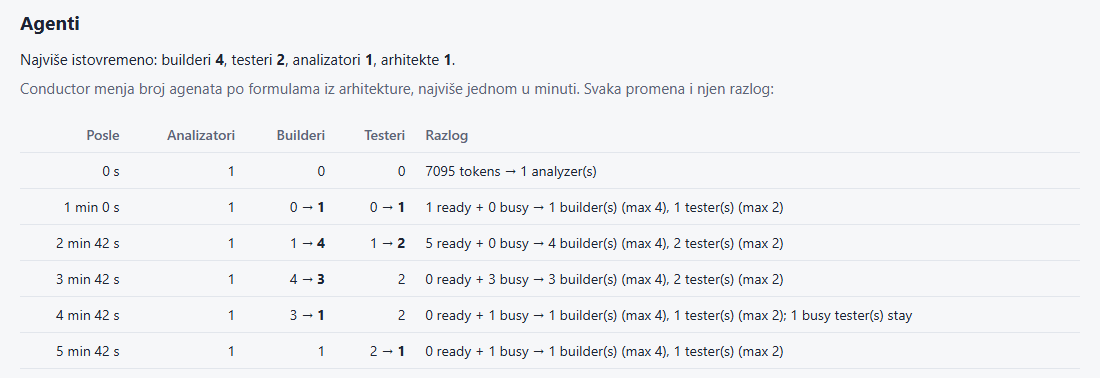
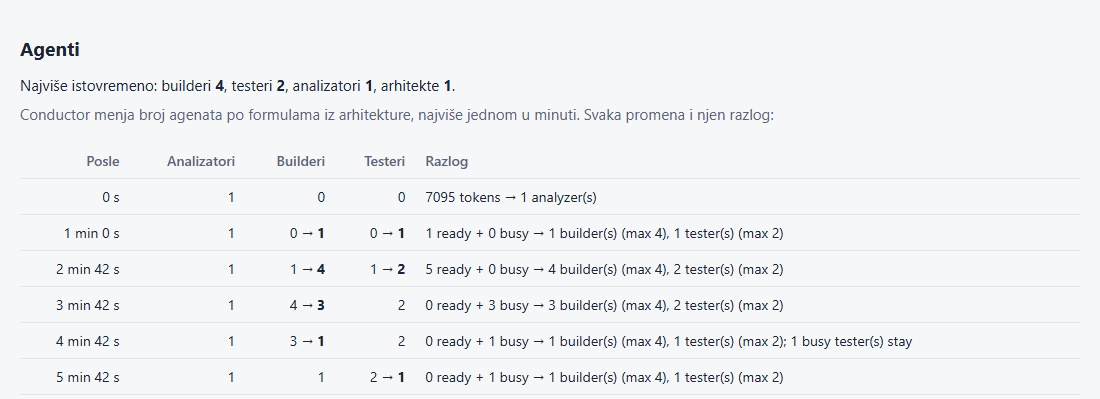
README: latest real Recepti run (recepti-20261031-2317) and new report screenshots

diff --git a/README.md b/README.md
@@ -12,7 +12,7 @@ Wemora reads a React single-page app, plans the migration, and lets a team of AI
 
 ![Wemora report of a real run on the Recepti app: 4 screens proven, 1 partially proven](docs/img/recepti-report-summary.png)
 
-<sub>The report of a real run (Claude Haiku 4.5 and Sonnet 4.6) on the 5-screen Recepti app, committed in [`runs/recepti-20261031-2148`](runs/recepti-20261031-2148/report.html): 4 screens proven and 1 partially proven, every screen in its first round, 6 of 7 cross-screen flows passing, in 14 minutes for $0.88. The report is in Serbian, the team's language.</sub>
+<sub>The report of a real run (Claude Haiku 4.5 and Sonnet 4.6) on the 5-screen Recepti app, committed in [`runs/recepti-20261031-2317`](runs/recepti-20261031-2317/report.html): 4 screens proven and 1 partially proven, every screen in its first round, 24 screen tests and 4 of 5 cross-screen flows passing, in 6 minutes for $0.71. The report is in Serbian, the team's language.</sub>
 
 Built for the **JigJoy × NTP Novi Sad Hackathon** (Freestyle) on the [Mozaik](https://www.npmjs.com/package/@mozaik-ai/core) multi-agent framework.
 
@@ -80,7 +80,7 @@ Copy `.env.example` to `.env` and set `ANTHROPIC_API_KEY`. For the hackathon gat
 npm run migrate -- examples/todomvc
 ```
 
-**Recepti** (5 screens, about 15 minutes). The app reads its recipes from a small data server, so start that first and keep it running:
+**Recepti** (5 screens, about 6 to 15 minutes). The app reads its recipes from a small data server, so start that first and keep it running:
 
 ```bash
 cd examples/mock-api && npm start          # terminal 1, http://localhost:3000
@@ -102,7 +102,7 @@ npm run migrate -- examples/recepti        # terminal 2
 
 ### See the agents work in parallel
 
-Open `output/<run-id>/report.html` after a run, or the committed real run [`runs/recepti-20261031-2148/report.html`](runs/recepti-20261031-2148/report.html) without running anything. The report is in Serbian; two sections show the concurrency:
+Open `output/<run-id>/report.html` after a run, or the committed real run [`runs/recepti-20261031-2317/report.html`](runs/recepti-20261031-2317/report.html) without running anything. The report is in Serbian; two sections show the concurrency:
 
 - **„Tok prolaza“ (run timeline):** one row per agent. Overlapping bars are agents working at the same time; the line above says how much faster the run was than the same work done one agent after another.
 - **„Agenti“ (agents):** the most agents at once, and every change of the team (builders, testers) with the time and the reason.
@@ -150,10 +150,24 @@ To keep a finished run and commit it, `npm run archive -- output/<run-id>` copie
 
 ## Check the proof again, with no AI and no API key
 
-[`runs/`](runs/) holds finished migrations: [`recepti-20261031-2148`](runs/recepti-20261031-2148/report.html) (a real run on Recepti) and [`todomvc-mock-20261031-1454`](runs/todomvc-mock-20261031-1454/report.html) (TodoMVC with recorded model answers). `verify` builds the mobile app of a run and runs every saved test again. For Recepti, start the data server first (`cd examples/mock-api && npm start`), then:
+[`runs/`](runs/) holds finished migrations: [`recepti-20261031-2317`](runs/recepti-20261031-2317/report.html) (the latest real run on Recepti), [`recepti-20261031-2148`](runs/recepti-20261031-2148/report.html) (an earlier real run) and [`todomvc-mock-20261031-1454`](runs/todomvc-mock-20261031-1454/report.html) (TodoMVC with recorded model answers). `verify` builds the mobile app of a run and runs every saved test again. For Recepti, start the data server first (`cd examples/mock-api && npm start`), then:
 
 ```bash
-npm run verify -- runs/recepti-20261031-2148
+npm run verify -- runs/recepti-20261031-2317
+```
+
+```
+categories  [proven]
+  pass  categories-initial-state
+  …
+favorites  [partial]
+  pass  favorites-empty-state
+recipe-detail  [proven]
+  …
+shopping-list  [proven]
+  pass  shopping-list-delete-bought
+
+OK: 24/24 tests pass on 5 screen(s) whose tests passed in the run
 ```
 
 TodoMVC needs nothing else:
@@ -250,9 +264,9 @@ flowchart LR
 
 The report also shows a timeline of all agents, how much faster the parallel run was, how many agents worked over time and why, the cost per agent, and the rounds per screen.
 
-![Timeline of the real Recepti run: an analyzer, an architect, 2 testers and 4 builders, with a 1.7x speedup over running them one after another](docs/img/recepti-report-timeline.png)
+![Timeline of the real Recepti run: an analyzer, an architect, 2 testers and 4 builders, with a 2.1x speedup over running them one after another](docs/img/recepti-report-timeline.png)
 
-In the real Recepti run above, the agents worked 23 minutes in total within a 14-minute run (1.7× faster than one after another). Every screen passed in its first round, so the builders were done after 6 minutes and the testers checked the cross-screen flows. The Conductor logs every change of the team with its reason:
+In the real Recepti run above, the agents worked 12 minutes in total within a 6-minute run (2.1× faster than one after another), with up to 4 builders and 2 testers at once. Every screen passed in its first round, so the builders were done after about 4 minutes and the testers wrote the cross-screen flow tests. The Conductor logs every change of the team with its reason:
 
 ![Agents section of the report: the number of builders and testers over time and the reason for each change](docs/img/recepti-report-agents.png)
 

diff --git a/docs/inbox/2026-10-31-b-to-d-readme-latest-run.md b/docs/inbox/2026-10-31-b-to-d-readme-latest-run.md
@@ -1,0 +1,39 @@
+---
+from: B
+to: D
+created: 2026-10-31
+priority: normal
+status: open
+done:
+---
+# B je na zahtev korisnika ažurirao tvoj README na poslednji prolaz (`runs/recepti-20261031-2317`)
+
+## Problem
+README je opisivao prolaz `runs/recepti-20261031-2148`, a u `runs/` je sada i noviji pravi prolaz `recepti-20261031-2317`. Korisnik (B) je tražio da README pokaže poslednji prolaz, pa je B izmenio tvoj fajl uz njegovo odobrenje. Stil i struktura su ostali isti; promenjeni su samo podaci, linkovi i slike.
+
+Šta je promenjeno:
+- `README.md`, red 15 (potpis ispod slike):
+  - prolaz je sada `runs/recepti-20261031-2317`;
+  - 4 ekrana `proven`, 1 `partial`, svi u prvoj rundi;
+  - 24 testa ekrana i 4 od 5 tokova prolaze;
+  - 6 min, $0,71.
+- „Recepti (5 screens, about 6 to 15 minutes)“, umesto „about 15 minutes“.
+- „See the agents work in parallel“: link na izveštaj prolaza 2317.
+- „Check the proof again“:
+  - spisak `runs/` ima sva tri prolaza;
+  - `verify` primer je na `runs/recepti-20261031-2317`, sa skraćenim izlazom „OK: 24/24 tests pass on 5 screen(s)“. B je to pokrenuo bez API ključa, uz mock-api.
+- Odeljak sa slikom „Tok prolaza“:
+  - ubrzanje 2,1× (12 min rada agenata u prolazu od 6 min);
+  - najviše 4 buildera i 2 testera;
+  - builderi su gotovi posle oko 4 min.
+- `docs/img/recepti-report-summary.png`, `recepti-report-timeline.png` i `recepti-report-agents.png` su novi snimci izveštaja prolaza 2317, u istoj širini (1100 px) i sa istim isečcima.
+
+Napomena: `verify` nad 2317 lokalno pada dok se ne pokrene `cd templates/expo && npm ci`, jer je šablon dobio `@react-native-async-storage/async-storage`. README to već traži u koraku 1.
+
+## Predlog
+Pogledaj izmene i ispravi ako ti nešto ne odgovara (npr. tekst o tokovima: pada `add-favorite-and-view`, korak 3 „Ukloni iz omiljenih“).
+
+## Gotovo kad
+- D je pregledao README i slike i ostavio ih, ili ih je ispravio.
+
+## Odgovor
